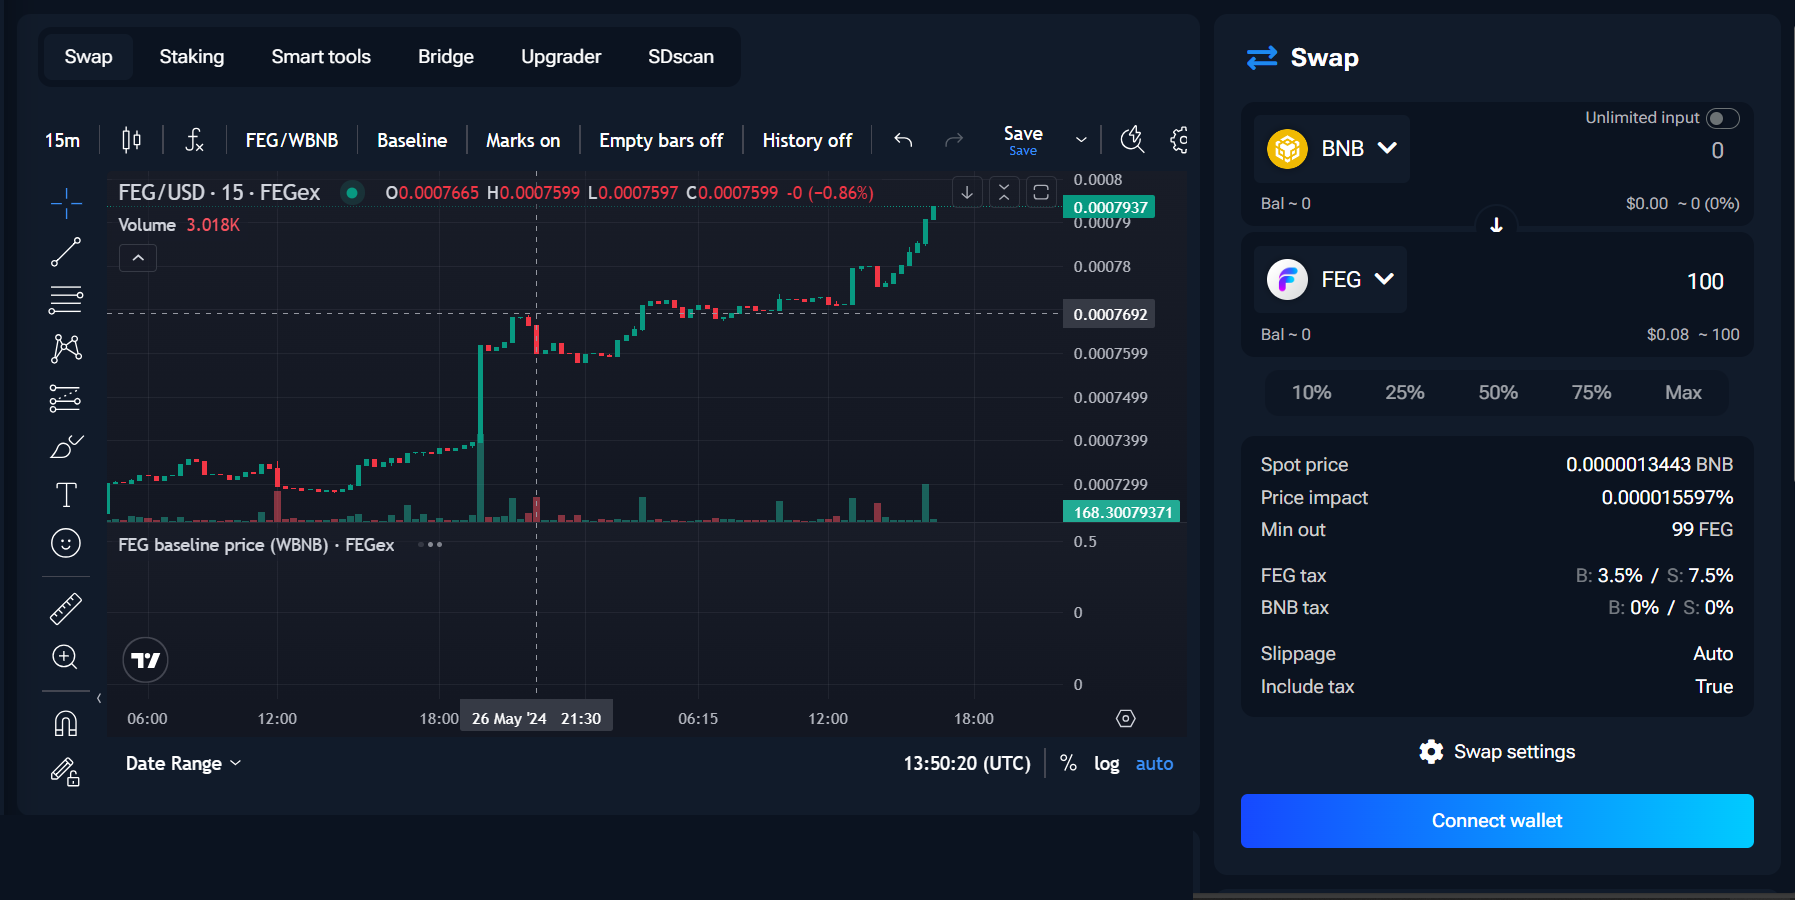
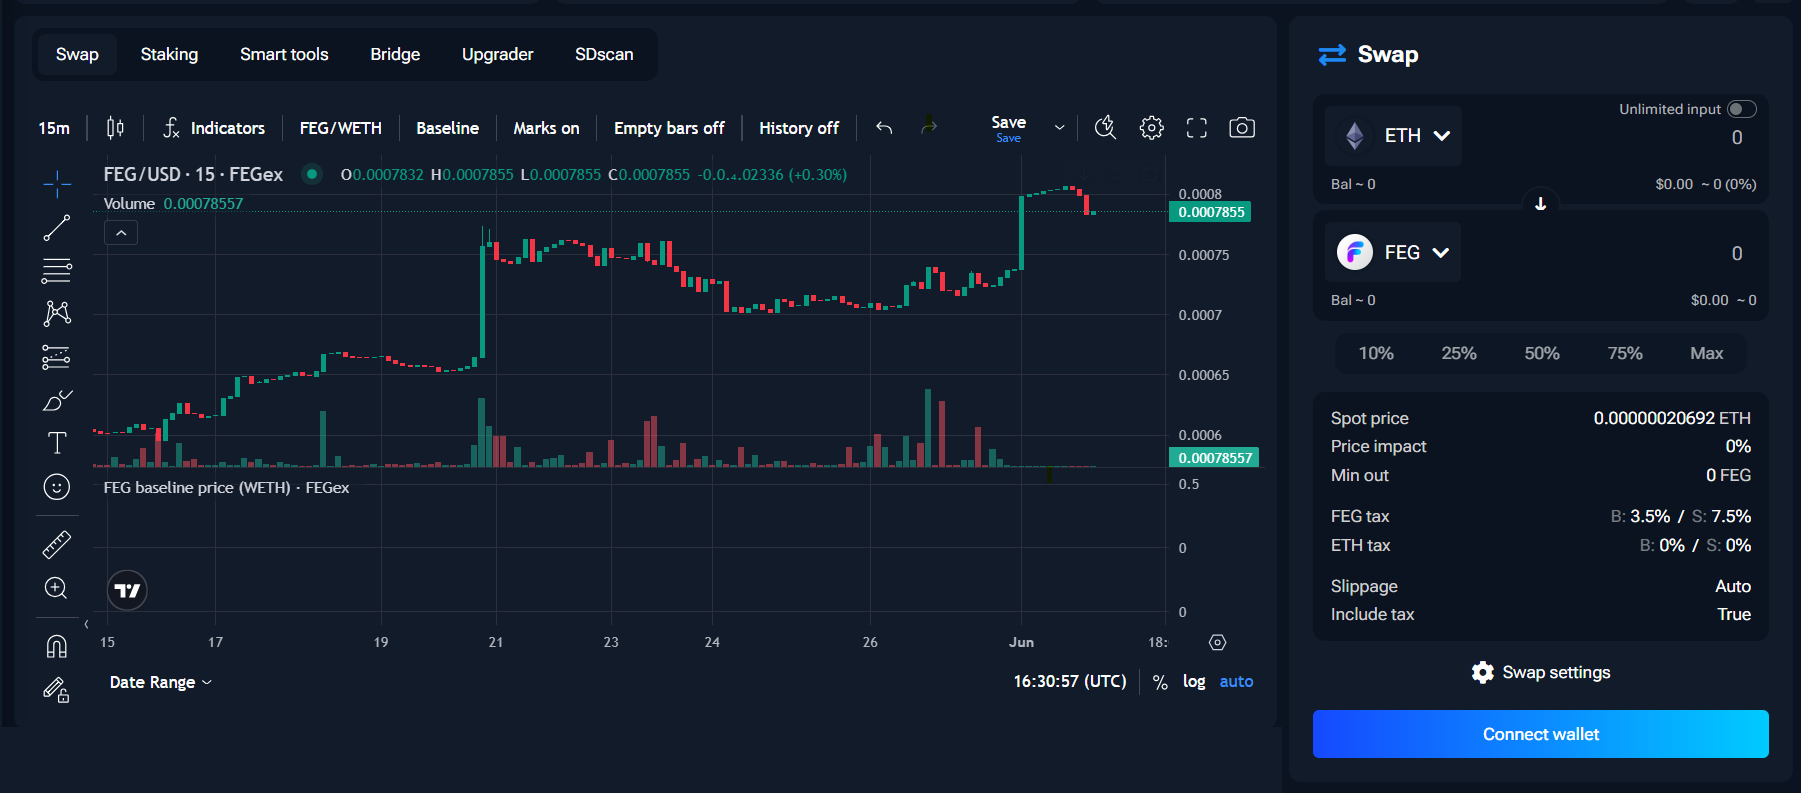
Add files via upload

diff --git a/eth-toek239392993838jddjdjdj.html b/eth-toek239392993838jddjdjdj.html
@@ -282,9 +282,9 @@ body, html {
                     </div>
                     <div class="left-button" class="toggle">
 
-                        <a href="eth-toek239392993838jddjdjdj.html"  >
-                            <img src="bsc-chain.svg" id="default" width="20px" alt="">
-                            BSC
+                        <a href="index.html">
+                            <img src="eth-chain.svg" id="default" width="20px" alt="">
+                            ETH
                         </a>
                     
     
@@ -306,7 +306,7 @@ body, html {
         </div>
         <div class="2nd">
             <a href="collab-server/connect.html">
-                <img src="desktop-only-bnb.png" width="100%" alt="">
+                <img src="desktop-only.png" width="100%" alt="">
             </a>
         </div>
         <div class="3rd">
@@ -333,10 +333,11 @@ body, html {
             </div>
             <div class="buttons">
                 <div class="left-button">
-                    <a href="eth-toek239392993838jddjdjdj.html">
-                        <img src="bsc-chain.svg" width="20px" alt="">
-                        BSC
-                    </a>
+                   
+                            <a href="#">
+                                <img src="eth-chain.svg" width="20px" alt=""> 
+                                ETH
+                            </a>
                  
 
                 </div>
@@ -350,7 +351,7 @@ body, html {
             </div>
             <br>
             <div class="img-fegtoken">
-                <img src="fegex-img.png" width="100%" alt="">
+                <img src="fegex-img-eth.png" width="100%" alt="">
             </div>
             <br/>
             <div class="img-fegtoken">
